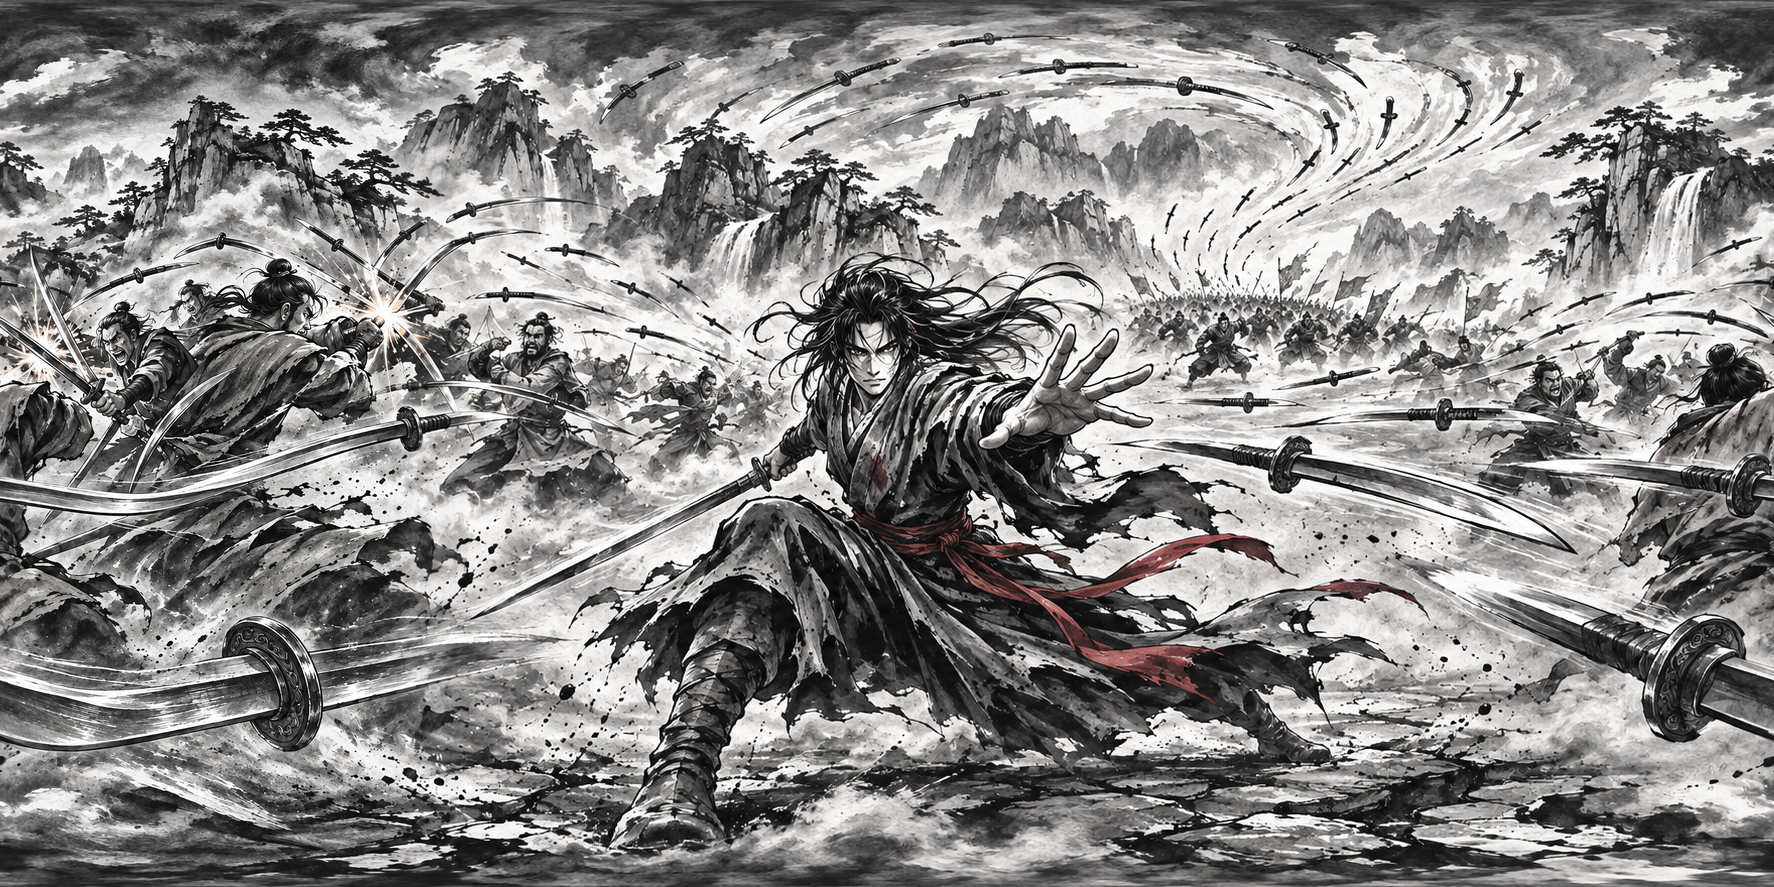
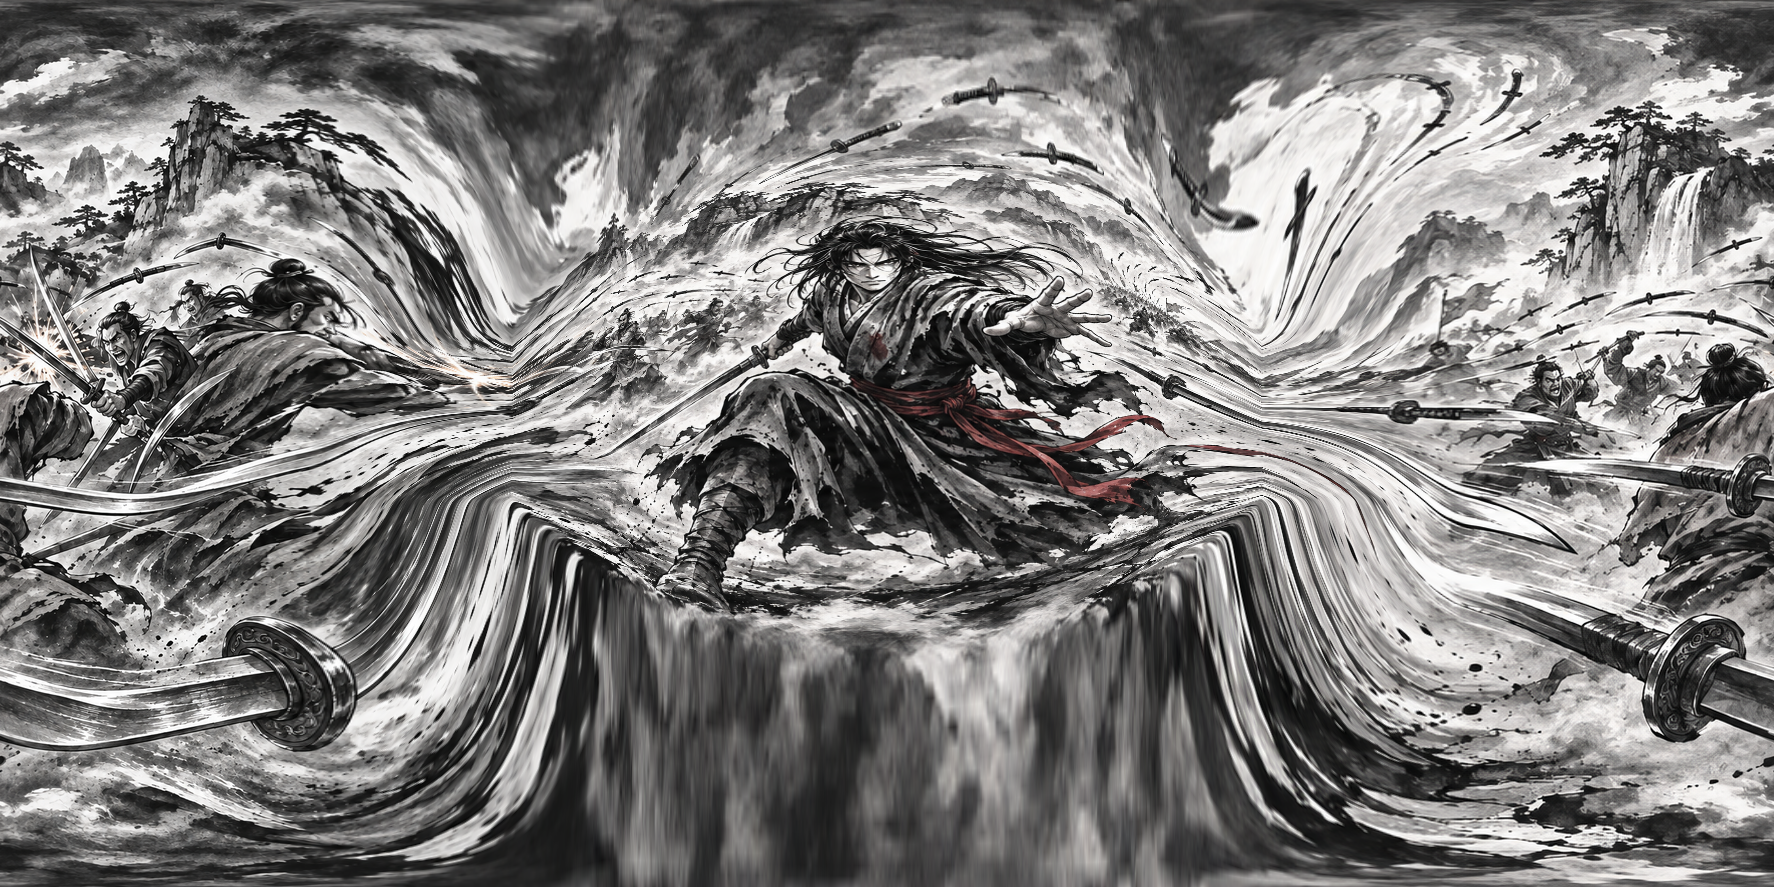
Widen the opening view of Yi Yeon

diff --git a/index.html b/index.html
@@ -138,7 +138,7 @@
 
       img.onload = function() {
         // 이미지가 로드되면 Marzipano 씬(Scene)을 생성합니다.
-        createMarzipanoScene(wrapper, img, currentSrc, labelText ?? baseName);
+        createMarzipanoScene(wrapper, img, currentSrc, labelText ?? baseName, index === openingImage);
         onSettled?.();
       };
 
@@ -155,7 +155,7 @@
       img.src = currentSrc;
     }
 
-    function createMarzipanoScene(wrapper, imgElement, realFileName, labelText) {
+    function createMarzipanoScene(wrapper, imgElement, realFileName, labelText, isOpeningImage) {
       // 1. 썸네일 표시
       const span = document.createElement('span');
       span.textContent = labelText;
@@ -173,7 +173,16 @@
       var geometry = new Marzipano.EquirectGeometry([{ width: 4096 }]);
 
       // 뷰(카메라) 설정
-      var view = new Marzipano.RectilinearView(viewOpts, limiter);
+      var sceneViewOpts = viewOpts;
+      var sceneLimiter = limiter;
+      if (isOpeningImage) {
+        const radians = Math.PI / 180;
+        const aspect = panoElement.clientWidth / panoElement.clientHeight;
+        const portraitFov = 2 * Math.atan(Math.tan(46 * radians) / aspect);
+        sceneViewOpts = { yaw: 0, pitch: 0, fov: Math.min(132 * radians, Math.max(102 * radians, portraitFov)) };
+        sceneLimiter = Marzipano.RectilinearView.limit.traditional(4096, 132 * radians, 156 * radians);
+      }
+      var view = new Marzipano.RectilinearView(sceneViewOpts, sceneLimiter);
 
       // 씬 생성 및 저장
       var scene = viewer.createScene({
